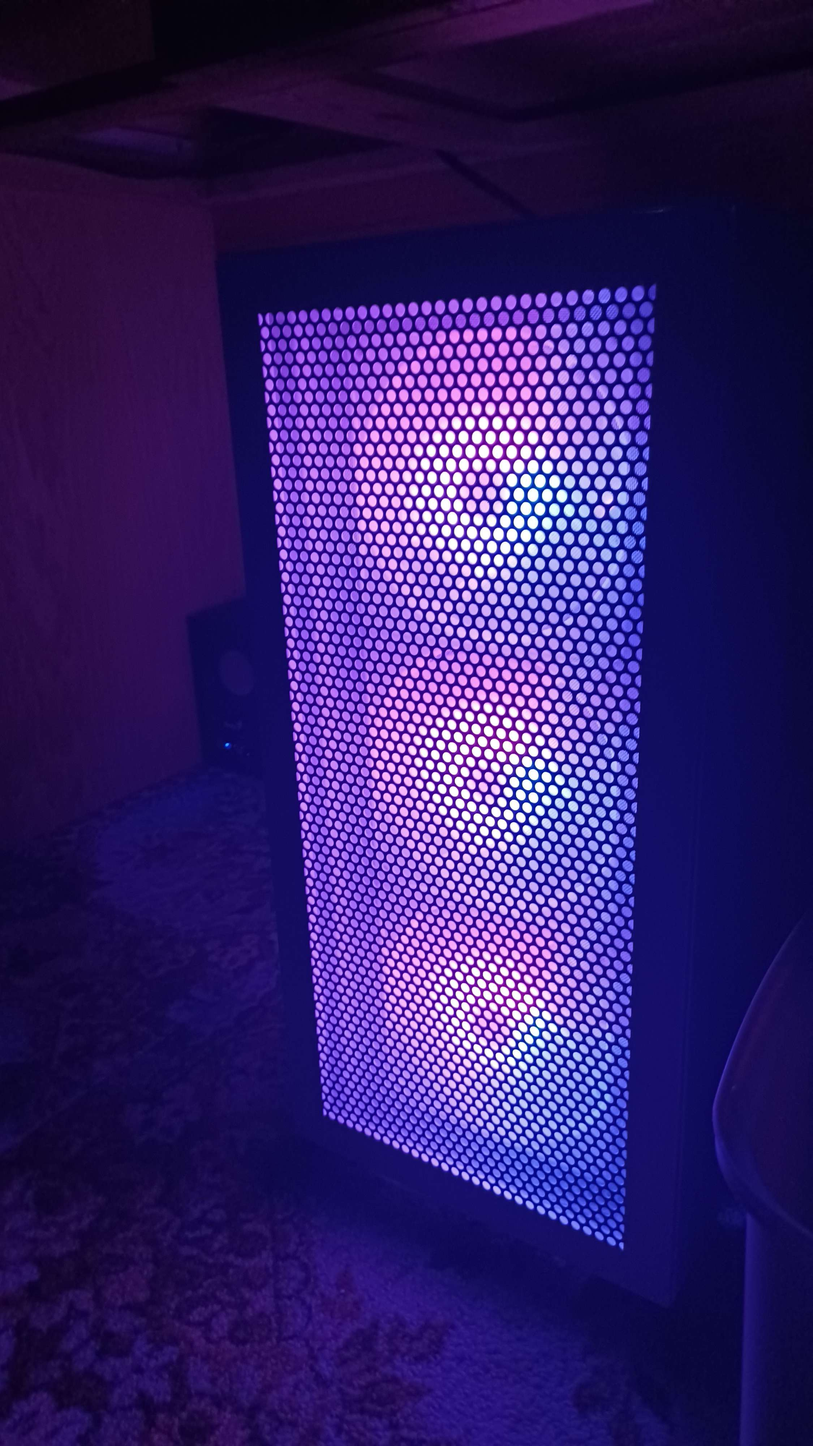
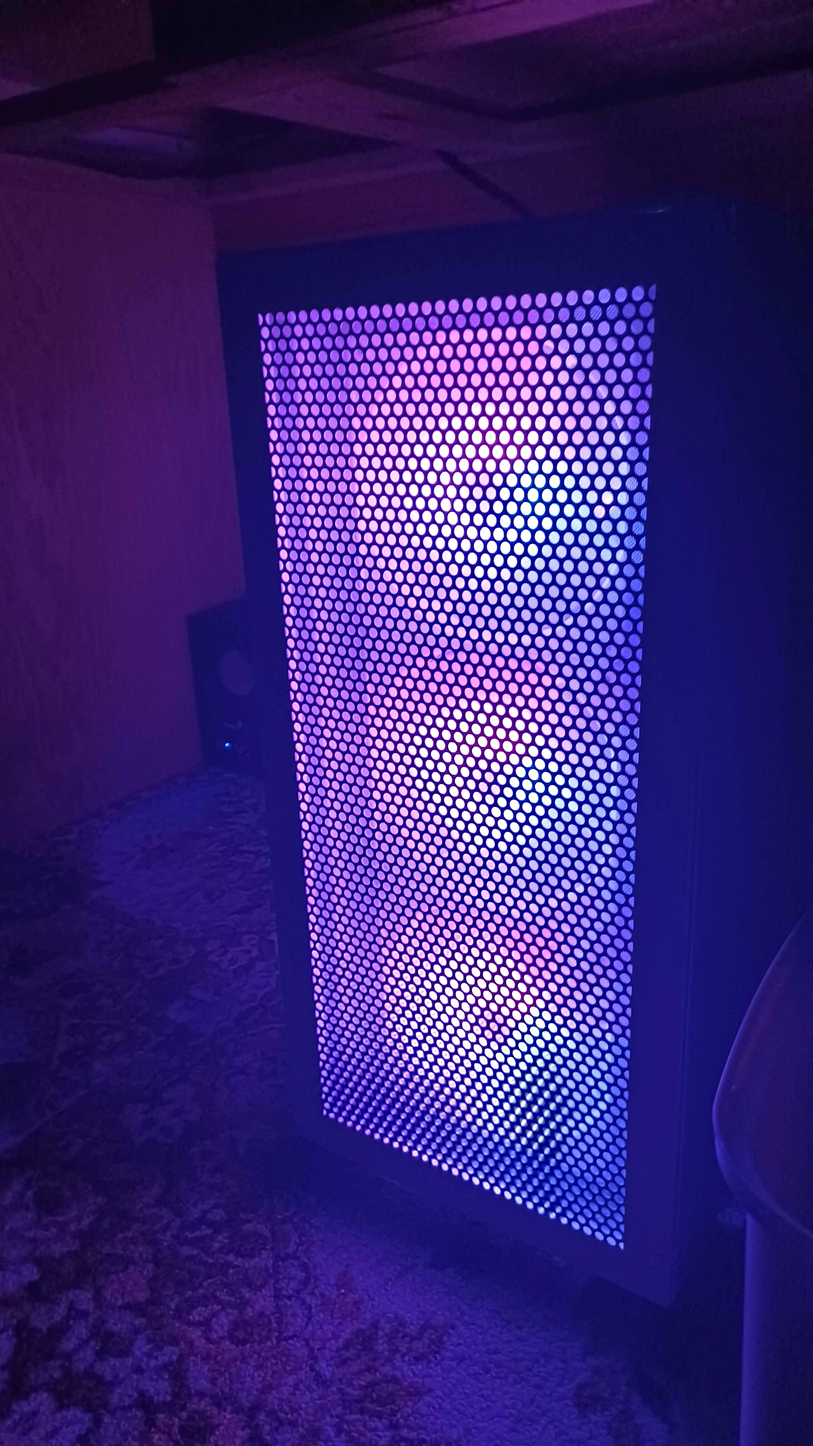
Setup kép megváltoztatva

diff --git a/HTML/setup.html b/HTML/setup.html
@@ -120,7 +120,7 @@
 
       <br>
     <div class="image-setup">
-      <img src="../képek/Setup 20230816/PC/20230730_231349.png" alt="PC - NetBy" title="PC - NetBy">
+      <img src="../képek/Setup/PC/20240124_202359.jpg" alt="PC - NetBy" title="PC - NetBy">
     </div>
     
 <footer>

diff --git a/CSS/setup.css b/CSS/setup.css
@@ -31,7 +31,7 @@ body {
     float: center;
     text-align: center;
     box-shadow: 0 10px 15px rgba(0, 0, 0, 0.384);
-    height: 350px;
+    height: 400px;
     width: 280px;
 
     border-radius: 8px;

diff --git a/CSS/kezdolap.css b/CSS/kezdolap.css
@@ -48,6 +48,7 @@ body{
     margin-right: auto;
     margin-top: auto;
     margin-bottom: auto;
+    box-shadow: 0 10px 15px rgba(0, 0, 0, 0.384);
 }
 .kuldott-kepet img{
     height: 150px;
